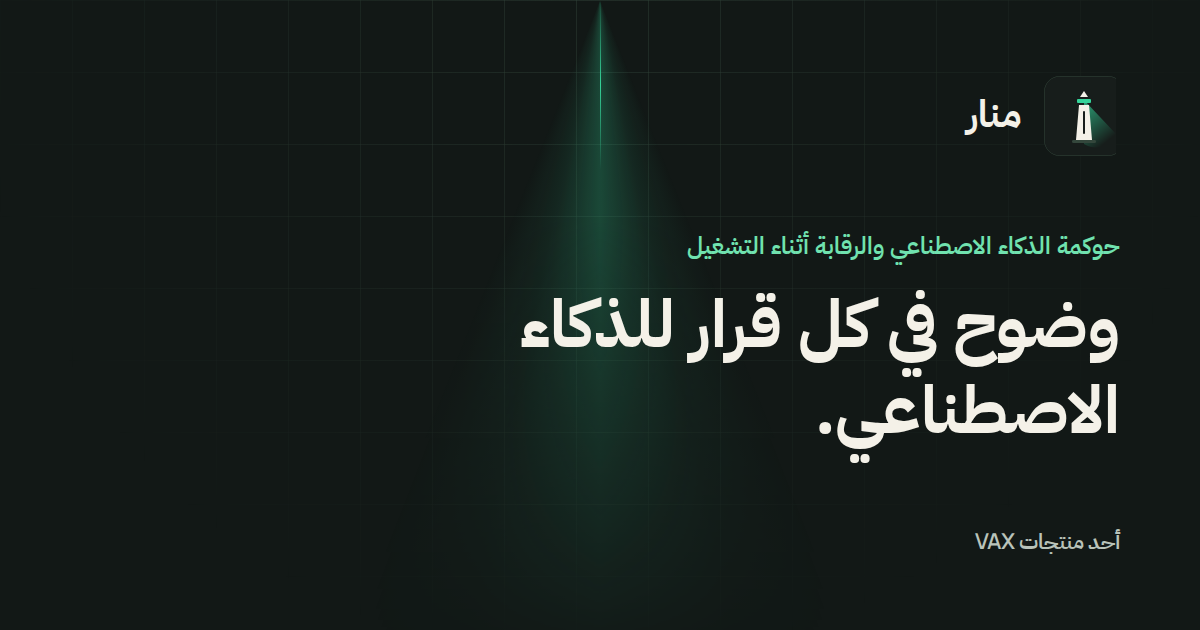
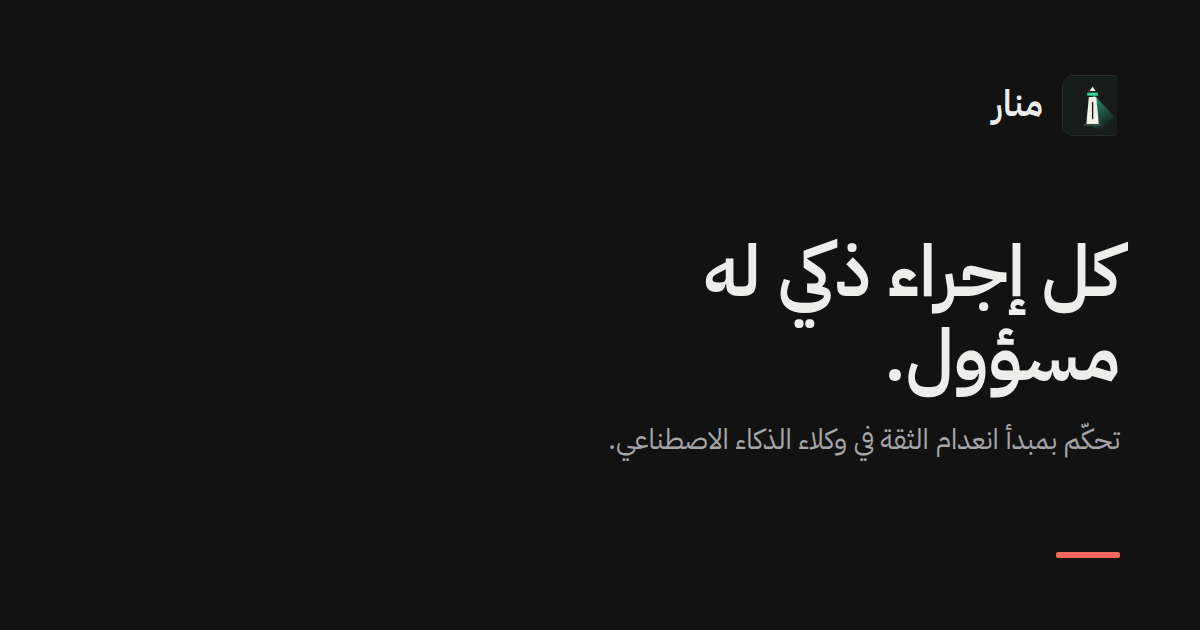
docs: README for the content model, /meet, new env and analytics setup; new OG cards

Changed region(s): [[0.4317, 0.0, 0.9558, 0.7841], [0.8017, 0.1508, 0.925, 0.2413], [0.8017, 0.8444, 0.9558, 0.9048]]

diff --git a/README.md b/README.md
@@ -28,10 +28,14 @@ npm run dev                  # http://localhost:3000 → redirects to /en
 | -------------------- | ------------------------------------------------------ |
 | `/`                  | Permanently redirects (308) to `/en`                   |
 | `/en`, `/ar`         | Homepage (statically prerendered)                      |
-| `/en/demo`, `/ar/demo` | Demo request page (statically prerendered)           |
+| `/en/meet`, `/ar/meet` | Book a meeting: pick a person or "Any of us", a time, then details (`Book a meeting` CTA) |
+| `/en/meet/confirm`, `/en/meet/manage` (and `/ar/...`) | Emailed links: confirm, reschedule or cancel a booking (noindex) |
+| `/en/demo`, `/ar/demo` | Written request form, the fallback when online booking is unavailable |
 | `/sitemap.xml`       | Public XML sitemap for the four canonical pages and their language alternates |
 | `/robots.txt`        | Public crawler rules and absolute sitemap location    |
 | `POST /api/demo-request` | Validates a demo request and emails it (Node.js runtime) |
+| `/api/meet/*` | Same-origin proxy to manar-site `/public/meet/*` (allowlisted routes only) |
+| `POST /api/revalidate` | Refreshes published content; `Authorization: Bearer $REVALIDATE_SECRET` |
 
 Unsupported locales return 404 (`dynamicParams = false`).
 
@@ -42,22 +46,35 @@ Unsupported locales return 404 (`dynamicParams = false`).
 | `SITE_URL`        | Sitemap/robots/metadata | Public origin; defaults to `https://manar.vax.sh`. Read at **build time**. Overrides must be absolute HTTP(S) origins with no credentials, path, query, or fragment. Invalid values fail the build. Docker requires an explicit build argument; CI already supplies it. |
 | `RESEND_API_KEY`  | Sending demo requests | Server-only. |
 | `DEMO_FROM_EMAIL` | Sending demo requests | Sender on a domain verified in Resend, e.g. `Manar <demo@mail.your-domain>`. |
-| `NEXT_PUBLIC_CF_BEACON_TOKEN` | Optional analytics | Cloudflare Web Analytics token, read at **build time** (Docker build argument). Enables the consent banner; the beacon loads only after opt-in. |
+| `NEXT_PUBLIC_CF_BEACON_TOKEN` | Optional analytics | Cloudflare Web Analytics token, read at **build time** (Docker build argument, passed by CI from the masked variable of the same name). Enables the consent banner; the beacon loads only after opt-in. Unset: no banner, no beacon. |
+| `NEXT_PUBLIC_TURNSTILE_SITE_KEY` | Booking | Cloudflare Turnstile site key, **build time** (CI build argument from the variable of the same name). |
+| `SITE_API_URL` | Content and booking | manar-site origin, **runtime**, server only. Unset or unreachable: bundled content, and `/meet` offers the request form. |
+| `REVALIDATE_SECRET` | Content publishing | At least 32 characters, **runtime**, server only. Unset: `/api/revalidate` returns 404. |
+
+### Turning on analytics (Cloudflare Web Analytics)
+
+1. Cloudflare dashboard: **Analytics and Logs → Web Analytics → Add a site**, hostname `manar.vax.sh`, and
+   choose the JavaScript snippet (not automatic setup, which injects the beacon without consent).
+   Copy only the `token` value from the snippet.
+2. GitLab `manar/landing`: **Settings → CI/CD → Variables → Add variable**, key `NEXT_PUBLIC_CF_BEACON_TOKEN`,
+   the token as value, **Masked** and **Protected** on (protected so only `main` builds see it).
+3. The next merge to `main` builds it in. Check: the banner appears on a first visit; nothing loads from
+   `static.cloudflareinsights.com` until **Accept analytics**; with Global Privacy Control on, no banner.
 
 ## Search indexing
 
 Next.js generates `/robots.txt` and `/sitemap.xml` as public, static metadata routes at the domain root;
-they require no login, cookies, or locale prefix. The sitemap contains `/en`, `/ar`, `/en/demo`, and
-`/ar/demo`, with reciprocal English/Arabic alternates and an English `x-default`. It excludes the root
+they require no login, cookies, or locale prefix. The sitemap contains `/en`, `/ar`, `/meet`, `/demo` and
+the legal pages in both languages, with reciprocal English/Arabic alternates and an English `x-default`. It excludes the root
 redirect and operational endpoints. `lastmod` is omitted because content modification dates are not
 tracked; do not substitute build time for the date of a real content update.
 
 Robots rules allow public pages and rendering assets, and disallow crawling `/api/` and `/_edge-health`.
 These rules are crawler hints, not access controls or a guarantee that an endpoint cannot be indexed.
 Every public page has a self-referencing canonical, localized title/description, language alternates,
-and `index, follow` metadata. Both homepages include consistent `WebSite` structured data. FAQ answers
-remain in server-rendered HTML even when collapsed. No keyword stuffing, invented reviews, or ratings
-are needed.
+and `index, follow` metadata. Both homepages include consistent `WebSite`, `Organization` and
+`SoftwareApplication` structured data (no FAQPage: the page shows no FAQ). The booking confirm and manage
+pages are `noindex`. No keyword stuffing, invented reviews, or ratings are needed.
 
 After deploying:
 
@@ -120,27 +137,33 @@ the client IP for rate limiting; set it only when every request passes a proxy t
 
 ## Editing content and translations
 
-- All visible copy, accessible labels, sample workspace data, FAQs, form text, errors, and metadata live in
-  typed dictionaries: `lib/i18n/dictionaries/en.ts` and `ar.ts`. `ar.ts` is typed against the English shape,
-  so a missing or extra key fails `npm run typecheck`.
+- Every visible string, link and image is in the content model, `lib/content/`: one typed document per
+  locale (`en.ts`, `ar.ts`, plus the legal documents in `legal/`), composed in `index.ts` and validated by
+  the zod schema in `schema.ts`. manar-site seeds its CMS from these documents and serves the published one at
+  `GET /public/content/:locale` as `{ version, content }`.
+- Pages render from `getContent(locale)` (`lib/content/load.ts`): the published document, cached for 60 s
+  under the `site-content` tag, or the bundled one when `SITE_API_URL` is unset, the API is unreachable, or
+  the answer fails validation.
+- The schema rejects en and em dashes, banned words, markup, off-site booking links, external links outside
+  `EXTERNAL_HOSTS`, and images that are not raster files under `/public`. `npm test` validates both documents.
 - Locales and direction: `lib/i18n/config.ts`. The `[lang]` root layout sets `lang` and `dir` on the server.
 - Use logical Tailwind utilities (`ms-*`, `pe-*`, `start-*`, `text-start`) so layouts mirror in RTL. Mirror
   directional arrows with `rtl:-scale-x-100`. Never mirror the logo. Wrap emails, IDs, and URLs in
   `ltr-fragment` (or `<bdi>`).
-- Sample workspace content must stay visibly labelled as illustrative. Do not add customer names, certifications,
-  performance numbers, or integrations that have not been confirmed.
+- Example data (the hero approval record) stays labelled as an example. Do not add customer names,
+  certifications, performance numbers, or integrations that have not been confirmed.
 
 ## Brand tokens and theme
 
-- Tokens are defined once in `app/globals.css`: light values on `:root`, dark values on `.dark`. shadcn variables
-  (`--background`, `--primary`, …) are mapped from the semantic tokens (`--page`, `--action`, …), and Tailwind
-  color utilities (`bg-surface`, `text-link`, `text-warning`, …) come from `@theme inline`.
-- Radius scale: `rounded-md` 8px (controls), `rounded-lg` 12px (cards), `rounded-xl` 20px (large previews).
-- Fonts via `next/font/google`: Manrope (English), IBM Plex Sans Arabic (Arabic), IBM Plex Mono (IDs and
-  metadata only, not preloaded).
-- Theme: dark by default. An explicit choice is stored in `localStorage` (`manar-theme`) and applied by an inline
-  script before first paint (`app/[lang]/layout.tsx`); `components/site/theme-toggle.tsx` handles switching.
-- The beam motif is CSS only (`.beam`, `.glow`, `.blueprint` in `globals.css`).
+- Design system: `docs/design/DESIGN-SYSTEM.md` in the workspace repo (Stone + UAE red). Tokens live once in
+  `app/globals.css` with the same names and values as manar-web: light on `:root`, dark on `.dark`. shadcn's
+  slots (`--primary`, `--muted`, ...) map onto them; the landing's primary is the brand red.
+- One radius: 6px (4px for badges). Spacing steps 4, 8, 12, 16, 24, 32, 48, 64, 96 only.
+- Fonts via `next/font/google`: IBM Plex Sans, IBM Plex Sans Arabic, IBM Plex Mono (ids and action names).
+- Theme: follows the system by default; an explicit choice is stored in `localStorage` (`manar-theme`) and
+  applied by an inline script before first paint (`app/[lang]/layout.tsx`).
+- Motion: colour transitions only, plus one hero animation (the example request moving to approved). No
+  scroll animation. Everything is off under `prefers-reduced-motion`.
 
 ## Brand assets
 
@@ -148,6 +171,9 @@ the client IP for rate limiting; set it only when every request passes a proxy t
   Always render it at its natural aspect ratio next to live "Manar" / "منار" text.
 - `app/favicon.ico`, `app/icon.png`, `app/apple-icon.png`: derived from that PNG by padding to a square
   (no redrawing).
-- `public/og/manar-en.png`, `public/og/manar-ar.png`: 1200 × 630 social images built from the same mark.
+- `public/og/manar-en.png`, `public/og/manar-ar.png`: 1200 × 630 social images (Stone dark, the mark, the
+  headline), rendered from HTML with Playwright.
+- `public/photo/lighthouse-dawn.webp`: the "where it runs" photograph, AI-generated (Figma image generation)
+  for this site. Replace with commissioned photography when available.
 - `design/stitch/`: exported Stitch references (design input only, not site source; the copy in those files
   contains unverified claims and must not be reused as-is).
